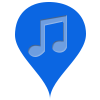
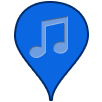
adds saveEvent function, success modal, marker borders

diff --git a/ionic/www/app/sidebar/sidebar.controller.js b/ionic/www/app/sidebar/sidebar.controller.js
@@ -133,7 +133,6 @@ angular.module('radar')
       }
     }
     var minutes = Math.ceil(parseFloat(dateString[4][1])/5)*5;
-    console.log("MINUTES: ", minutes)
 
     var dateTime = {
       month: dateString[1],
@@ -150,7 +149,6 @@ angular.module('radar')
 
   $scope.openNewEventModal = function() {
     // TODO: Check for authentication. If authenticated, proceed. Else "Please Login or register to post events"
-    // $scope.startTime = new Date();
     $scope.newPostData = {
         title: '',
         info: '',
@@ -162,6 +160,7 @@ angular.module('radar')
         startDateTime: '',
         endDateTime: '',
         category: '',
+        price: 0,
         coords: {lat: undefined, lng: undefined}
       };
 
@@ -180,34 +179,36 @@ angular.module('radar')
     });
   };
 
+  function makeHash(len){
+      var text = [];
+      var possible = 'ABCDEFGHIJKLMNOPQRSTUVWXYZabcdefghijklmnopqrstuvwxyz0123456789';
+      for(var i = 0; i < len; i++){
+          text.push(possible.charAt(Math.floor(Math.random() * possible.length)));
+      }
+      return text.join('');
+  }
+
   $scope.saveNewEvent = function() {
     // TODO: Get userId from Auth, pass it into http call below
-    var userId = 1;
-    // DUMMY INFO BELOW
-    var address = ($scope.newPostData.streetAddress1+'+'+$scope.newPostData.streetAddress2+'+'+$scope.newPostData.city+'+'+$scope.newPostData.state+'+'+$scope.newPostData.zipCode).split(' ').join('+');
-   
-    function makeHash(len){
-        var text = [];
-        var possible = 'ABCDEFGHIJKLMNOPQRSTUVWXYZabcdefghijklmnopqrstuvwxyz0123456789';
-        for(var i = 0; i < len; i++){
-            text.push(possible.charAt(Math.floor(Math.random() * possible.length)));
-        }
-        return text.join('');
-    }
+    $scope.newPostData.userId = 1;
 
     var photoFileName = makeHash(18) + '.jpg';
-    var userId = 1
     var address = ($scope.newPostData.streetAddress1+'+'+$scope.newPostData.streetAddress2+'+'+$scope.newPostData.city+'+'+$scope.newPostData.state+'+'+$scope.newPostData.zipCode).split(' ').join('+')
     var timeZone = getDateTime().timeZone;
-    $scope.newPostData.startDateTime = '';
-    $scope.newPostData.endDateTime ='';
+
     Http.getCoordsForAddress(address, function(coords) {
       $scope.newPostData.coords = coords;
-      $scope.newPostData.photoFileName = photoFileName;
-      Http.saveNewEvent($scope.newPostData);
+      if (photoFileName) { $scope.newPostData.photoFileName = photoFileName; }
+      $ionicModal.fromTemplateUrl('app/modals/postSuccess.html', {
+        scope: $scope,
+      }).then(function(modal) {
+        $scope.modal = modal;
+        $scope.openModal();
+      });
+      Http.saveNewEvent($scope.newPostData, function(res) {
+        //Should be event id - Pass to photo for upload
+      });
     });
-
-    
     //if photo exists: upload photo by calling HTTP funciton.
     if($rootScope.photoUploaded){
       Http.uploadPhoto($scope.photoFile, photoFileName);

diff --git a/ionic/www/app/http/httpHandler.factory.js b/ionic/www/app/http/httpHandler.factory.js
@@ -2,6 +2,7 @@ angular.module('radar')
 .factory('HttpHandler', ['$http', '$upload', function($http, $upload) {
 
   var httpObject = {};
+  var geocoder;
 
   httpObject.getEvents = function(bounds, callback) {
 
@@ -30,7 +31,6 @@ angular.module('radar')
   };
 
   httpObject.getAddressForCoords = function(lat, lng, callback) {
-    var geocoder;
     geocoder = new google.maps.Geocoder();
     var latlng = new google.maps.LatLng(lat,lng);
     geocoder.geocode({'latLng': latlng}, function(results, status) {
@@ -47,16 +47,20 @@ angular.module('radar')
   };
 
   httpObject.getCoordsForAddress = function(address, callback) {
-    $http.get('/api/events/geocode?address=' + address)
-      .success(function(data, status) {
-        callback(data);
-      })
-      .error(function(data, status) {
-        console.log("ERROR FOR API EVENTS");
-      });
+    geocoder = new google.maps.Geocoder();
+    geocoder.geocode({ 'address': address }, function(results, status) {
+      if (status == google.maps.GeocoderStatus.OK) {
+        var coords = {
+          lat: results[0].geometry.location.k,
+          lng: results[0].geometry.location.D
+        }
+        console.log(coords);
+        callback(coords);
+      };
+    })
   };
 
-  httpObject.saveNewEvent = function(postData) {
+  httpObject.saveNewEvent = function(postData, callback) {
     console.log(postData);
     $http({
       method: 'POST',
@@ -73,13 +77,12 @@ angular.module('radar')
         streetAddress2: postData.streetAddress2,
         city: postData.city,
         state: postData.state,
-        zipCode: postData.zipCode,
         user_id: postData.userId,
         photoFileName: postData.photoFileName
       }
     })
       .success(function(data, status) {
-        console.log("posted new event");
+        callback(data);
       })
       .error(function(data, status) {
         console.log("ERROR FOR API EVENTS");
@@ -149,21 +152,17 @@ angular.module('radar')
     function linkPhotoToEventRecord(photoFileName){
       console.log('now apprising main server of photo upload.')
       $http({
-            method: 'POST',
-            url: '/api/photos/addOne',
-            data: {
-              user_id: 1,     //TODO: get actual event ID from the server (response from posting the event)
-              event_id: 1,    //TODO: get actual user ID from auth
-              url: 'https://s3-us-west-1.amazonaws.com/base9photos/' + photoFileName
-            }
-          });
+        method: 'POST',
+        url: '/api/photos/addOne',
+        data: {
+          user_id: 1,     //TODO: get actual event ID from the server (response from posting the event)
+          event_id: 1,    //TODO: get actual user ID from auth
+          url: 'https://s3-us-west-1.amazonaws.com/base9photos/' + photoFileName
+        }
+      });
     }
 
   }
-
-
-
-
 
   return httpObject;
 }]);

diff --git a/ionic/www/app/modals/newEventModal.html b/ionic/www/app/modals/newEventModal.html
@@ -73,11 +73,11 @@
           <option value="other">Other</option>
         </select>
           <h6 class="categoryCostText"> cost: $ </h6>
-          <input class="priceInput" type="number" ng-model="price"> 
+          <input class="priceInput" type="number" ng-model="newPostData.price" min="0"> 
       </div>
       <div class="postButtons">
         <button class="cancelEventButton" ng-click="closeModal()">Cancel</button>
-        <button class="postEventButton" ng-click="saveNewEvent()">Post Event</button>
+        <button class="postEventButton" ng-click="saveNewEvent(); closeModal()">Post Event</button>
       </div>
     </div>
   </div>

diff --git a/ionic/www/css/ionic.app.css b/ionic/www/css/ionic.app.css
@@ -85,6 +85,20 @@ input, button, select, textarea {
     outline: none;
     font-size: 20px; }
 
+/*********** POST SUCCESS MODAL **********/
+.postSuccess {
+  height: 300px;
+  text-align: center; }
+  .postSuccess .messageContainer {
+    height: 100%; }
+  .postSuccess .message {
+    position: absolute;
+    font-size: 50px;
+    color: #b4b4b4;
+    font-family: 'Muli', sans-serif;
+    top: calc(50% - 15px);
+    left: calc(50% - 170px); }
+
 /*********** LOGIN/REGISTER MODALS **********/
 .formContainer {
   width: 80%;

diff --git a/ionic/scss/ionic.app.scss b/ionic/scss/ionic.app.scss
@@ -180,6 +180,27 @@ input, button, select, textarea {
 }
 
 
+/*********** POST SUCCESS MODAL **********/
+
+.postSuccess {
+	height: 300px;
+	text-align: center;
+
+	.messageContainer {
+		height: 100%;
+	}
+
+	.message { 
+		position: absolute;
+		font-size: 50px;
+		color: $textGray;
+		font-family: 'Muli', sans-serif;
+		top: calc(50% - 15px);
+		left: calc(50% - 170px);
+	}
+
+}
+
 /*********** LOGIN/REGISTER MODALS **********/
 
 .formContainer {

diff --git a/ionic/www/app/modals/postSuccess.html b/ionic/www/app/modals/postSuccess.html
@@ -1,0 +1,7 @@
+<ion-modal-view class="postSuccess">
+  <div class="messageContainer">
+    <p class="message">Event Posted!</p>
+  <div class="closeModal">
+    <button class="closeModalButton" ng-click="closeModal()"><p>X</p></button>
+  </div>
+</ion-modal-view>
